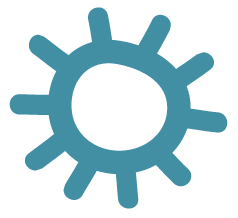
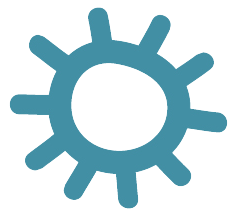
more changes

diff --git a/src/components/MobileCarousel/index.tsx b/src/components/MobileCarousel/index.tsx
@@ -7,16 +7,24 @@ import {
   Slide,
   DotGroup,
   Image,
+  ButtonBack,
+  ButtonNext,
 } from 'pure-react-carousel';
 import React from 'react';
+import { BiRightArrow, BiLeftArrow } from 'react-icons/bi';
+import styled from 'styled-components';
 
+export const Whoops = styled.div`
+  padding: 7vw 0;
+`;
 const MobileCarousel = ({ cards, noResize }) => {
+  const loop = cards.map(({ mediaAsset }) => mediaAsset);
   return (
-    <div style={{ padding: '7vw 0' }}>
+    <Whoops>
       <CarouselProvider
-        naturalSlideWidth={1700}
-        naturalSlideHeight={2200}
-        isIntrinsicHeight={!noResize}
+        // naturalSlideWidth={loop.width}
+        // naturalSlideHeight={loop.height}
+        isIntrinsicHeight
         totalSlides={cards.length}
       >
         <Slider>
@@ -28,7 +36,7 @@ const MobileCarousel = ({ cards, noResize }) => {
                   <a href={assetLink} target="_blank">
                     <Image
                       src={mediaAsset?.url}
-                      style={{ height: 'calc(100% - 41px)' }}
+                      // style={{ height: 'calc(100% - 41px)' }}
                     />
                   </a>
                 ) : (
@@ -40,18 +48,21 @@ const MobileCarousel = ({ cards, noResize }) => {
                     />
                   </div>
                 )}
-                <p
-                  style={{ fontSize: 27, textAlign: 'center', paddingTop: 60 }}
-                >
+                <p style={{ fontSize: 18, textAlign: 'center' }}>
                   {textSummary}
                 </p>
               </Slide>
             ),
           )}
         </Slider>
-        <DotGroup />
+        <ButtonBack>
+          <BiLeftArrow size="8vw" />
+        </ButtonBack>
+        <ButtonNext>
+          <BiRightArrow size="8vw" />
+        </ButtonNext>
       </CarouselProvider>
-    </div>
+    </Whoops>
   );
 };
 

diff --git a/src/identity/globalStyles.ts b/src/identity/globalStyles.ts
@@ -5,6 +5,22 @@ import { colors, uiColors } from './colors';
 import { breakpoints } from '@identity/breakpoints';
 
 export const GlobalStyles = createGlobalStyle`
+
+  .carousel__back-button, .carousel__next-button {
+    border: none;
+    background: none;
+    position: absolute;
+    top: 50%;
+  }
+
+  .carousel__back-button {
+    left: 0;
+  }
+
+  .carousel__next-button {
+    right: 0;
+  }
+
   :root {
     ${uiColors} ${colors} ${constants}
   }
@@ -48,6 +64,10 @@ export const GlobalStyles = createGlobalStyle`
   article, aside, details, figcaption, figure,
   footer, header, hgroup, menu, nav, section {
     display: block;
+  }
+
+  main {
+
   }
 
   header {
@@ -114,7 +134,7 @@ export const GlobalStyles = createGlobalStyle`
   .burger .burger-lines,
   .burger .burger-lines:after,
   .burger .burger-lines:before {
-    background-color: #a8d1e4;
+    background-color: #428fa4;
   }
 
   .next-image {
@@ -127,7 +147,9 @@ export const GlobalStyles = createGlobalStyle`
 
   .player-wrapper {
     position: relative;
-    padding-top: 56.25%
+    padding-top: 50.25%;
+    height: 100%;
+    width: 100%;
   }
 
   .react-player {
@@ -136,15 +158,17 @@ export const GlobalStyles = createGlobalStyle`
     left: 0;
   }
 
+  .carousel {
+    position: relative;
+  }
+
   .carousel__inner-slide {
     display: flex;
     flex-direction: column;
-    padding: 0 7vw;
 
+    img, iframe {
+      padding: 0 10vw;
 
-    img {
-
-      object-fit: contain;
     }
 
   }
@@ -157,7 +181,9 @@ export const GlobalStyles = createGlobalStyle`
 
     button {
       margin: 0 2px;
+      background: #428fa4;
       border: 2px solid #428fa4;
+
     }
   }
 

diff --git a/src/components/MobileResources/index.tsx b/src/components/MobileResources/index.tsx
@@ -1,0 +1,43 @@
+// @ts-nocheck
+import React from 'react';
+import ReactPlayer from 'react-player';
+import Button from '@components/Button';
+
+const MobileResources = ({ cards }) => {
+  return (
+    <div style={{ width: '100vw' }}>
+      {cards.map(({ mediaAsset, heading, textSummary, assetLink }, index) => (
+        <div
+          style={{
+            padding: '40px 7vw',
+            display: 'flex',
+            flexDirection: 'column',
+            alignItems: 'center',
+          }}
+        >
+          <p style={{ fontSize: 24, paddingBottom: 10 }}>{heading}</p>
+          <p style={{ fontSize: 18, paddingBottom: 20 }}>{textSummary}</p>
+          {mediaAsset?.url ? (
+            <div>
+              <img src={mediaAsset?.url} style={{ width: '100%' }} />
+            </div>
+          ) : (
+            <div className="player-wrapper">
+              <ReactPlayer
+                url={assetLink}
+                width="100%"
+                height="100%"
+                className="react-player"
+              />
+            </div>
+          )}
+          <a href={assetLink} target="_blank">
+            <Button>View</Button>
+          </a>
+        </div>
+      ))}
+    </div>
+  );
+};
+
+export default MobileResources;

diff --git a/src/views/MIDI/index.tsx b/src/views/MIDI/index.tsx
@@ -5,8 +5,9 @@ import { useQuery } from '@apollo/client';
 import { PageQuery } from '@graphql/PageQuery';
 import TextBlock from '@components/TextBlock';
 import Carousel from '@components/Carousel';
-import MobileCarousel from '@components/MobileCarousel';
+
 import { useMediaQuery } from 'react-responsive';
+import MobileResources from '@components/MobileResources';
 
 const BG = [
   'var(--primary-1)',
@@ -40,7 +41,7 @@ const Resources = () => {
     <>
       <TextBlock {...data.page.heroSection} />
       {isMobile ? (
-        <MobileCarousel cards={resourceBlocks} noResize />
+        <MobileResources cards={resourceBlocks} />
       ) : (
         <Carousel cards={resourceBlocks} />
       )}

diff --git a/src/views/Resources/index.tsx b/src/views/Resources/index.tsx
@@ -5,7 +5,7 @@ import { useQuery } from '@apollo/client';
 import { PageQuery } from '@graphql/PageQuery';
 import TextBlock from '@components/TextBlock';
 import Carousel from '@components/Carousel';
-import MobileCarousel from '@components/MobileCarousel';
+import MobileResources from '@components/MobileResources';
 import { useMediaQuery } from 'react-responsive';
 
 const BG = [
@@ -40,7 +40,7 @@ const Resources = () => {
     <>
       <TextBlock {...data.page.heroSection} />
       {isMobile ? (
-        <MobileCarousel cards={resourceBlocks} noResize />
+        <MobileResources cards={resourceBlocks} />
       ) : (
         <Carousel cards={resourceBlocks} />
       )}

diff --git a/src/components/MobileResources/motion.ts b/src/components/MobileResources/motion.ts
@@ -1,0 +1,28 @@
+export const cardMotion = {
+  visible: {
+    opacity: 1,
+    y: 0,
+    transition: {
+      ease: [0.17, 0.67, 0.83, 0.67],
+      delayChildren: 0.25,
+      staggerChildren: 0.07,
+      staggerDirection: 1,
+    },
+  },
+  hidden: {
+    opacity: 0,
+    y: '-100vh',
+    transition: {
+      ease: [0.17, 0.67, 0.83, 0.67],
+      staggerChildren: 0.07,
+      staggerDirection: -1,
+      when: 'afterChildren',
+    },
+  },
+};
+
+export const yoMotion = {
+  visible: { opacity: 1, y: 0, x: 0 },
+  hidden: { opacity: 0, y: -20, x: -10 },
+  exit: { opacity: 0 },
+};

diff --git a/src/patterns/Navigation/styles/HeaderStyles.ts b/src/patterns/Navigation/styles/HeaderStyles.ts
@@ -6,10 +6,22 @@ export const Menu = styled(motion.header)`
   width: 100%;
   margin: 0 auto;
   display: flex;
-  justify-content: space-between;
+  justify-content: flex-end;
   align-items: center;
+  background: white;
+  position: fixed;
+  height: 80px;
+  box-shadow: 0px 0px 10px rgba(0, 0, 0, 0.1);
+  ${props => props.theme.breakpoints.TABLET} {
+    box-shadow: none;
+    position: relative;
+  }
 
   img {
+    position: fixed;
+    z-index: 100;
+    top: 20px;
+    left: 7vw;
     width: 40px;
     ${props => props.theme.breakpoints.TABLET} {
       width: 70px;

diff --git a/pages/_app.tsx b/pages/_app.tsx
@@ -27,7 +27,11 @@ const MyApp = ({ Component, pageProps, router, apollo }: AppProps & Props) => {
       <ApolloProvider client={apollo}>
         <Layout>
           <AnimatePresence exitBeforeEnter>
-            <motion.main {...mainMotion} key={router.route}>
+            <motion.main
+              {...mainMotion}
+              key={router.route}
+              style={{ marginTop: 80 }}
+            >
               <Component {...pageProps} />
             </motion.main>
           </AnimatePresence>

diff --git a/src/components/Block/index.tsx b/src/components/Block/index.tsx
@@ -70,7 +70,7 @@ const Block = ({ heading, textSummary, index, background, slug }: Props) => {
                 : { height: isMobile ? 0 : 'auto', opacity: isMobile ? 0 : 1 }
             }
           >
-            <motion.p>{textSummary}</motion.p>
+            <motion.p style={{ textAlign: 'left' }}>{textSummary}</motion.p>
             {isMobile && (
               <Link href={'/'} passHref>
                 <a>

diff --git a/src/patterns/Navigation/NavItems.tsx b/src/patterns/Navigation/NavItems.tsx
@@ -10,9 +10,14 @@ const NAV_ITEMS = [
   {
     id: 3,
     title: 'interface',
-    route: '/interface',
+    route: 'https://chasebliss.com/wp-content/uploads/2021/02/blooper.3.0.html',
+    external: true,
   },
-  { id: 4, title: 'midi', route: '/midi' },
+  {
+    id: 4,
+    title: 'midi',
+    route: '/midi',
+  },
   { id: 5, title: 'FAQ', route: '/faq' },
 ];
 

diff --git a/src/identity/breakpoints.ts b/src/identity/breakpoints.ts
@@ -1,5 +1,5 @@
 export const breakpoints = {
-  TABLET: '@media (min-width: 765px)',
+  TABLET: '@media (min-width: 768px)',
   TABLET_HD: '@media (min-width: 1024px)',
   DESKTOP: '@media (min-width: 1200px)',
   DESKTOP_HD: '@media (min-width: 1400px)',

diff --git a/src/views/Home/styles.ts b/src/views/Home/styles.ts
@@ -4,7 +4,7 @@ import { motion } from 'framer-motion';
 export const Content = styled(motion.div)`
   position: relative;
   padding: 0 7vw;
-  padding-bottom: 20%;
+  padding-bottom: 120px;
 
   img {
     object-fit: contain;
